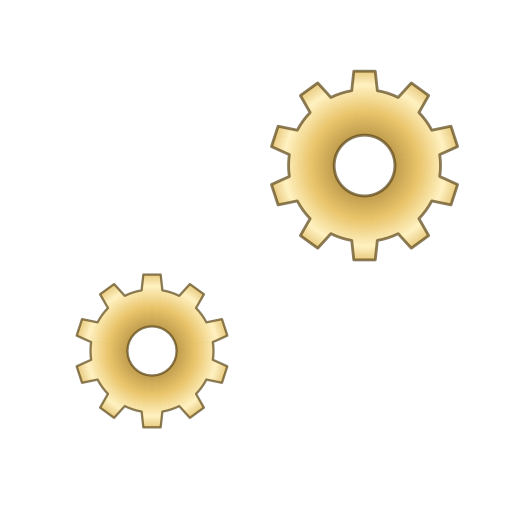
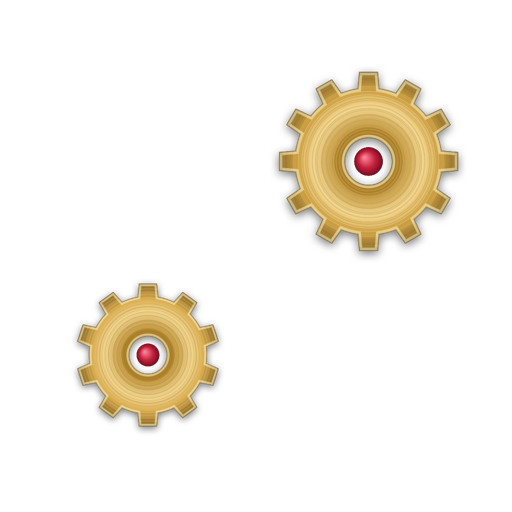
Логотип реалистичный: точёная сталь, латунные колёса с рубинами, графитовый циферблат, хромированная «К», часовое стекло; разбор строго лицом к зрителю, без задней крышки

Changed region(s): [[0.5312, 0.125, 0.9062, 0.5312], [0.125, 0.5312, 0.4688, 0.8438]]

diff --git a/src/components/logo.tsx b/src/components/logo.tsx
@@ -2,7 +2,7 @@ import { useEffect, useState } from 'react'
 import { Animated, Easing, View } from 'react-native'
 
 /**
- * Bottom → top, like a watch: plate, brass wheels, the steel gear, the medallion, «К», the crystal.
+ * Bottom → top, like a watch: brass wheels, the steel gear, the dial, «К», the crystal.
  * `edge` — the colour of the layer's side, so a turned layer shows its thickness; `side` — the picture for it
  * when the face has a soft shadow (tinted, the shadow would turn into a block); `thick` — fewer copies for the thin «К».
  */
@@ -15,16 +15,15 @@ interface Layer {
 }
 
 const LAYERS: Layer[] = [
-	{ source: require('../../assets/images/layer-plate.png'), spin: 0, edge: '#3E4656' },
-	{ source: require('../../assets/images/layer-gears.png'), spin: -1, edge: '#B48C3C' },
-	{ source: require('../../assets/images/layer-gear.png'), spin: 1, edge: '#9AA2B1' },
-	{ source: require('../../assets/images/layer-medal.png'), spin: 0, edge: '#2A50C8' },
-	{ source: require('../../assets/images/layer-k.png'), side: require('../../assets/images/layer-k-flat.png'), spin: 0, edge: '#C9D2E3', thick: 1 },
+	{ source: require('../../assets/images/layer-gears.png'), spin: -1, edge: '#6E5218' },
+	{ source: require('../../assets/images/layer-gear.png'), spin: 1, edge: '#5A6272' },
+	{ source: require('../../assets/images/layer-medal.png'), spin: 0, edge: '#1B1F27' },
+	{ source: require('../../assets/images/layer-k.png'), side: require('../../assets/images/layer-k-flat.png'), spin: 0, edge: '#5B6372', thick: 2 },
 	{ source: require('../../assets/images/layer-glass.png'), spin: 0, edge: null },
 ]
 
 /** Copies behind each face that make up its side. */
-const THICKNESS = 3
+const THICKNESS = 4
 
 /**
  * The logo taking itself apart like a watch in an exploded view, face to the viewer: the crystal, «К» and the dial come
@@ -56,13 +55,10 @@ export function ExplodedLogo({ size }: { size: number }) {
 		return () => (show.stop(), spin.stop())
 	}, [tilt, spread, turn])
 
-	const gap = size * 0.28
-	const depth = size * 0.01
+	const gap = size * 0.38
+	const depth = size * 0.012
 	const middle = (LAYERS.length - 1) / 2
-	// a slight turn only — every part keeps its face to the viewer
-	const rotateY = tilt.interpolate({ inputRange: [0, 1], outputRange: ['0deg', '22deg'] })
-	const rotateX = tilt.interpolate({ inputRange: [0, 1], outputRange: ['0deg', '10deg'] })
-	const forward = turn.interpolate({ inputRange: [0, 1], outputRange: ['0deg', '360deg'] })
+		const forward = turn.interpolate({ inputRange: [0, 1], outputRange: ['0deg', '360deg'] })
 	const backward = turn.interpolate({ inputRange: [0, 1], outputRange: ['0deg', '-540deg'] })
 
 	return (
@@ -75,6 +71,7 @@ export function ExplodedLogo({ size }: { size: number }) {
 						spread.interpolate({ inputRange: [0, 1], outputRange: [0, -z * gap] }),
 						tilt.interpolate({ inputRange: [0, 1], outputRange: [0, k * depth] })
 					)
+				const yk = (k: number) => Animated.add(y, tilt.interpolate({ inputRange: [0, 1], outputRange: [0, k * depth] }))
 				const y = spread.interpolate({ inputRange: [0, 1], outputRange: [0, z * gap * 0.18] })
 				const scale = spread.interpolate({ inputRange: [0, 1], outputRange: [1, 1 + z * 0.1] })
 				const rotate = layer.spin > 0 ? forward : layer.spin < 0 ? backward : '0deg'
@@ -92,7 +89,7 @@ export function ExplodedLogo({ size }: { size: number }) {
 							zIndex: i * 10 + (10 - k),
 							width: size,
 							height: size,
-							transform: [{ perspective: size * 6 }, { translateX: x(k) }, { translateY: y }, { scale }, { rotateY }, { rotateX }, { rotate }],
+							transform: [{ translateX: x(k) }, { translateY: yk(k) }, { scale }, { rotate }],
 						}}
 					/>
 				))
